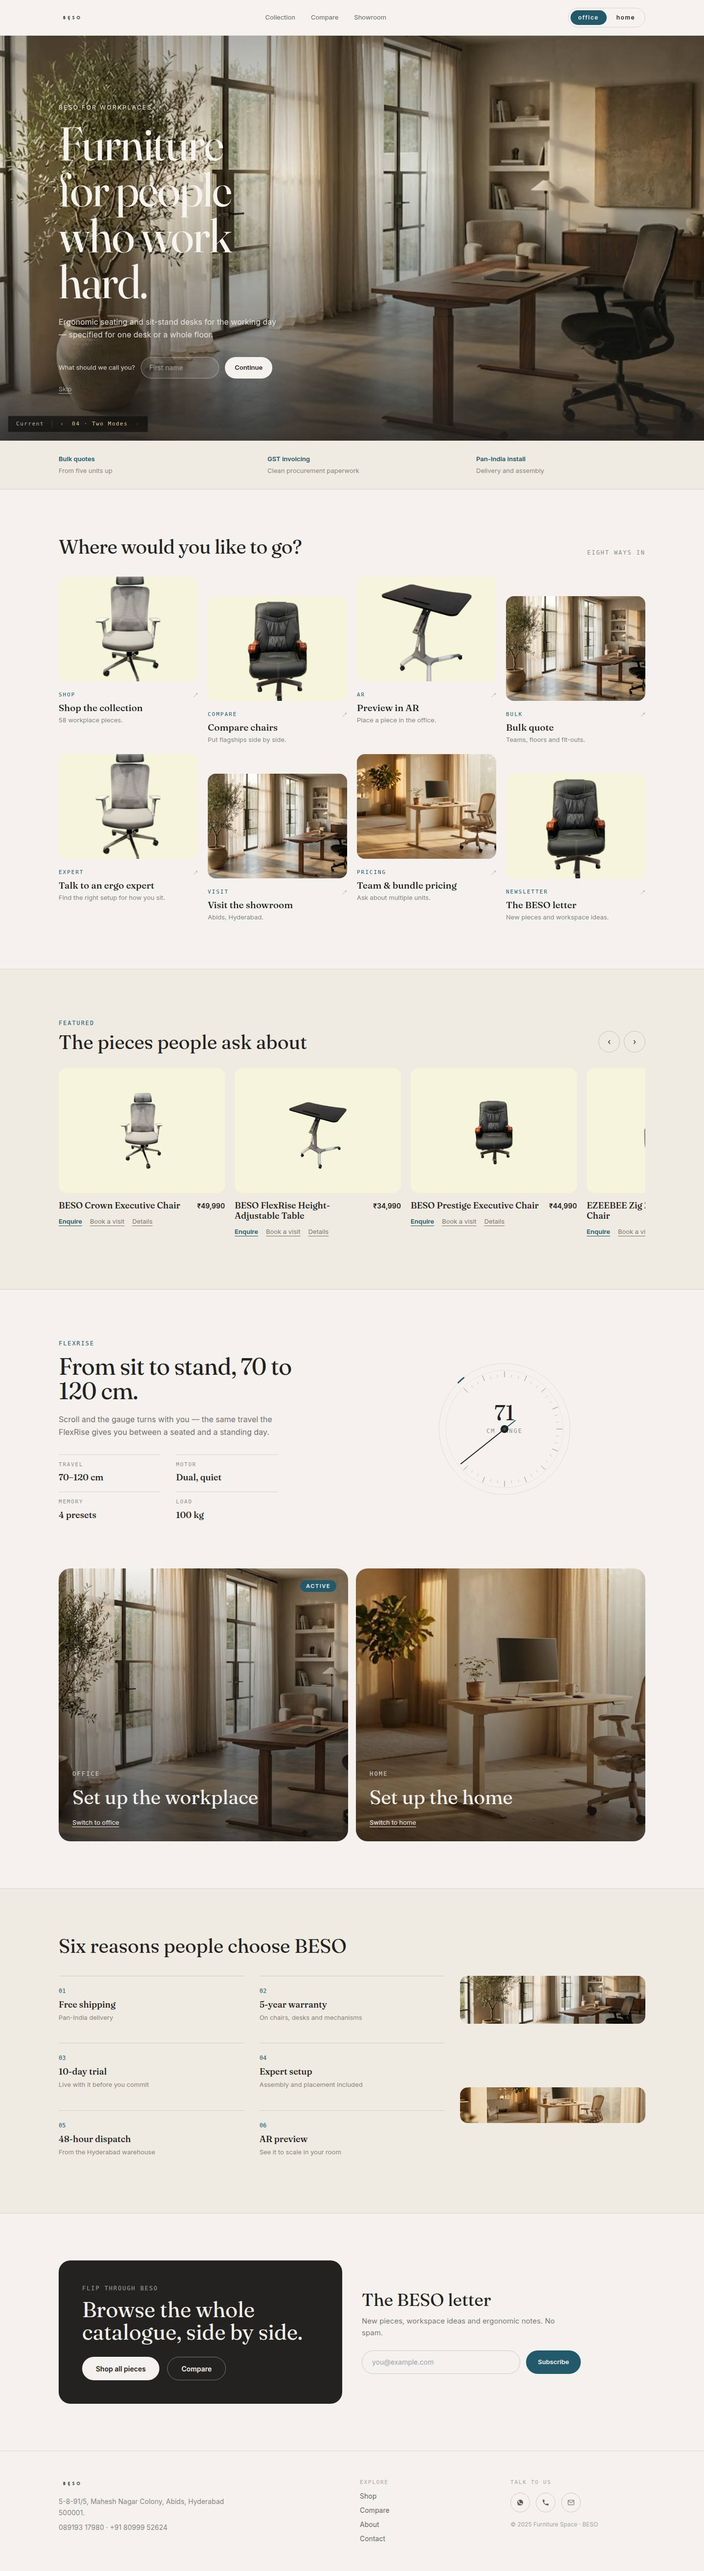
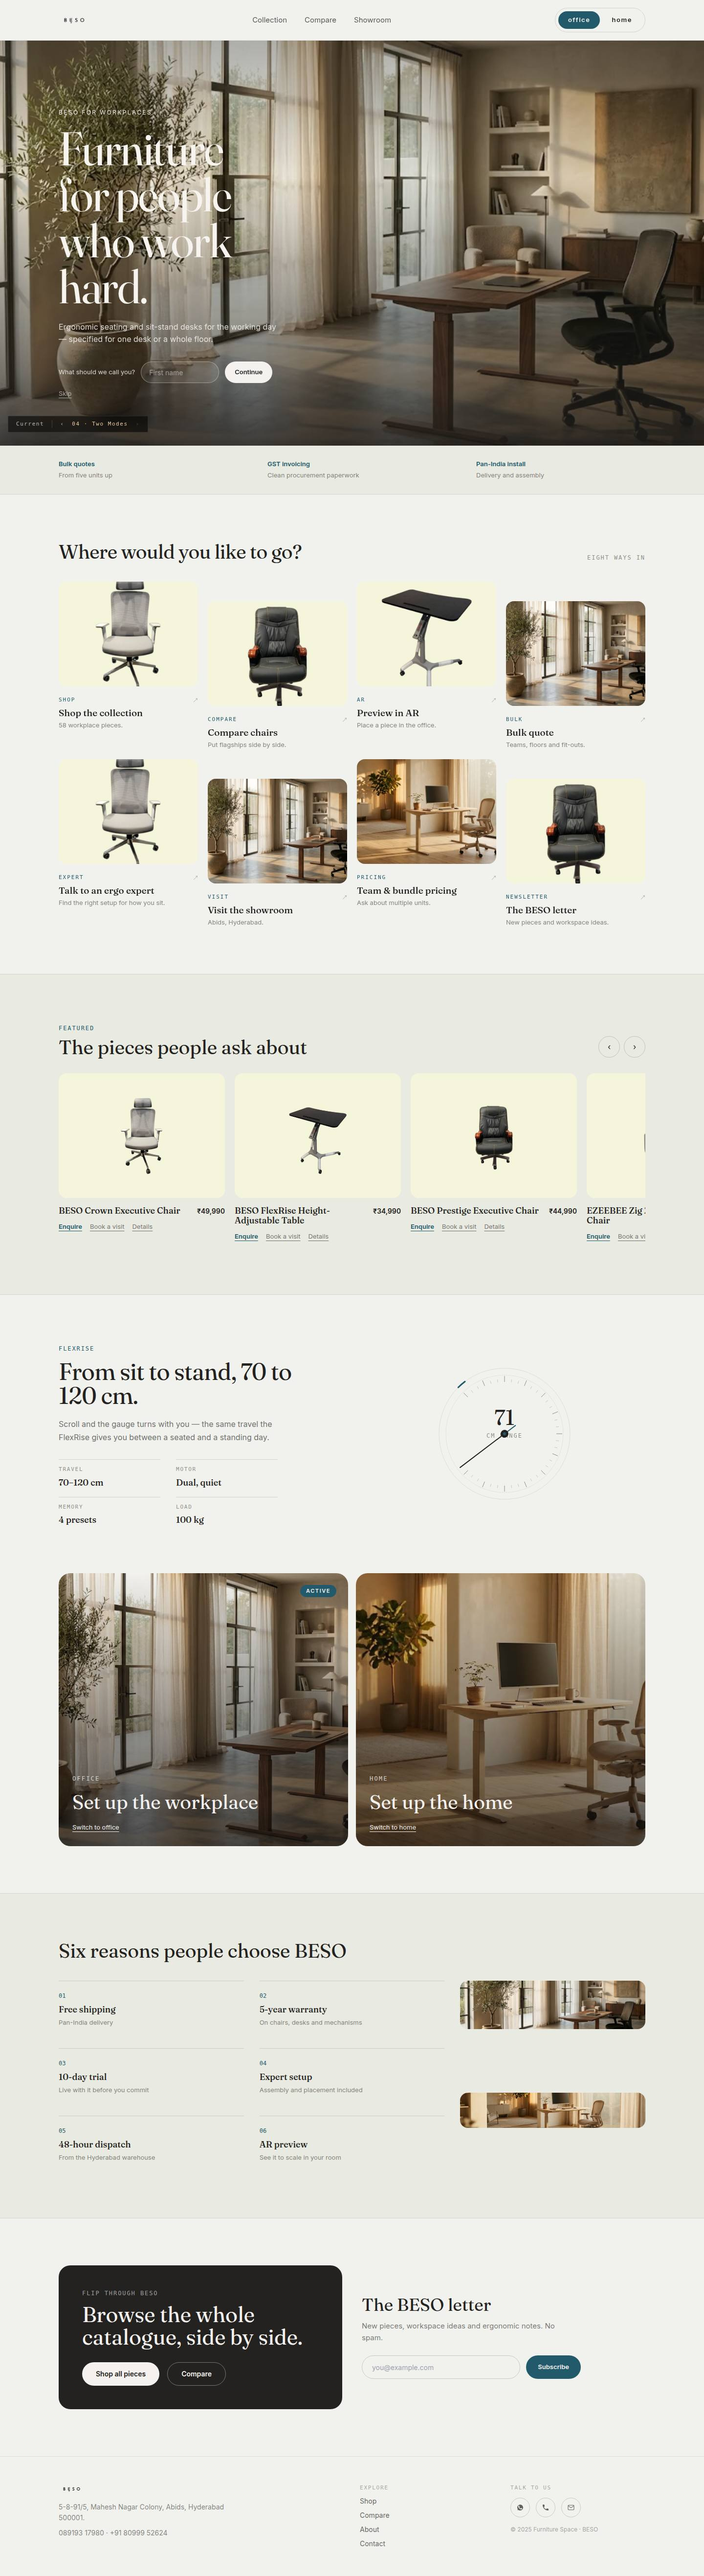
feat(concept/Two Modes): dolly-zoom card motion, bigger nav, per-mode tint
- card hover motion -> dolly zoom (container scales down, image scales up)
  on entry tiles and featured cards (replaces sheen/lift)
- nav elements larger (logo, 15px links, bigger mode toggle)
- subtle per-mode page tint matched to the new videos (Office cool base
  #F1F2ED, Home warm #F6EFE4; panels shift too) with a 700ms transition

diff --git a/src/components/designs/d04-twomodes/index.tsx b/src/components/designs/d04-twomodes/index.tsx
@@ -41,6 +41,8 @@ const MODES = {
     headline: ['Furniture', 'for people', 'who work', 'hard.'],
     sub: 'Ergonomic seating and sit-stand desks for the working day — specified for one desk or a whole floor.',
     accent: '#235A6B',
+    base: '#F1F2ED',
+    panel: '#E9EAE1',
     video: '/assets/videos/mode-office',
     poster: '/assets/videos/mode-office-poster.jpg',
     image: '/assets/images/d01-hero.jpg',
@@ -51,6 +53,8 @@ const MODES = {
     headline: ['Furniture', 'for people', 'who rest', 'well.'],
     sub: 'The same ergonomics, scaled to the corner where you read, write and unwind.',
     accent: '#B4593A',
+    base: '#F6EFE4',
+    panel: '#EFE6D8',
     video: '/assets/videos/mode-home',
     poster: '/assets/videos/mode-home-poster.jpg',
     image: '/assets/images/editorial-workspace.jpg',
@@ -165,25 +169,25 @@ export default function DesignTwoModes() {
   const nudge = (dir: number) => scroller.current?.scrollBy({left: dir * 360, behavior: 'smooth'});
 
   return (
-    <div className="bg-[#F4F1EE] text-[#232220]" style={{fontFamily: BODY}}>
+    <div className="text-[#232220] transition-colors duration-700" style={{fontFamily: BODY, background: M.base}}>
       {/* ── Header with mode switch ────────────────────────────────────── */}
-      <header className="sticky top-0 z-40 border-b border-[#232220]/10 bg-[#F4F1EE]/85 backdrop-blur-md">
+      <header className="sticky top-0 z-40 border-b border-[#232220]/10 backdrop-blur-md" style={{background: `${M.base}D9`}}>
         <div className="mx-auto flex max-w-[1280px] items-center justify-between gap-4 px-5 py-4 lg:px-10">
           <Link href="/" className="flex items-center gap-3">
-            <img src="/assets/images/beso-logo-transparent.png" alt="BESO" className="h-5 w-auto" style={{filter: 'brightness(0)'}} />
+            <img src="/assets/images/beso-logo-transparent.png" alt="BESO" className="h-6 w-auto" style={{filter: 'brightness(0)'}} />
           </Link>
-          <nav className="hidden items-center gap-8 text-[13px] text-[#232220]/70 md:flex">
-            <Link href="/products" className="hover:text-[#232220]">Collection</Link>
-            <Link href="/compare" className="hover:text-[#232220]">Compare</Link>
-            <Link href="#showroom" className="hover:text-[#232220]">Showroom</Link>
+          <nav className="hidden items-center gap-9 text-[15px] text-[#232220]/75 md:flex">
+            <Link href="/products" className="transition-colors hover:text-[#232220]">Collection</Link>
+            <Link href="/compare" className="transition-colors hover:text-[#232220]">Compare</Link>
+            <Link href="#showroom" className="transition-colors hover:text-[#232220]">Showroom</Link>
           </nav>
-          <div className="flex items-center gap-1 rounded-full border border-[#232220]/15 p-1 text-[12px] font-semibold uppercase tracking-[0.12em]">
+          <div className="flex items-center gap-1 rounded-full border border-[#232220]/15 p-1.5 text-[13px] font-semibold uppercase tracking-[0.12em]">
             {(['office', 'home'] as Mode[]).map((m) => (
               <button
                 key={m}
                 onClick={() => pick(m)}
                 aria-pressed={mode === m}
-                className="rounded-full px-4 py-1.5 transition-colors duration-500 ease-in-out"
+                className="rounded-full px-5 py-2 transition-colors duration-500 ease-in-out"
                 style={mode === m ? {background: MODES[m].accent, color: '#F4F1EE'} : {color: '#232220'}}
               >
                 {m}
@@ -245,7 +249,7 @@ export default function DesignTwoModes() {
       </section>
 
       {/* ── Mode USP trio (swaps with the mode) ────────────────────────── */}
-      <section key={`usp-${mode}`} className="tm-swap border-b border-[#232220]/10 bg-[#EFEAE2]">
+      <section key={`usp-${mode}`} className="tm-swap border-b border-[#232220]/10 transition-colors duration-700" style={{background: M.panel}}>
         <div className="mx-auto grid max-w-[1280px] gap-px sm:grid-cols-3">
           {M.usp.map(([t, d]) => (
             <div key={t} className="px-5 py-7 lg:px-10">
@@ -266,9 +270,8 @@ export default function DesignTwoModes() {
           {TILES[mode].map((t, i) => (
             <Reveal key={t.title} delay={(i % 4) * 70} className={i % 2 === 1 ? 'lg:mt-10' : ''}>
               <Link href={t.href} target={t.href.startsWith('http') ? '_blank' : undefined} rel={t.href.startsWith('http') ? 'noopener noreferrer' : undefined} className="group block">
-                <div className="relative overflow-hidden rounded-2xl bg-[#F5F5DB]">
-                  <img src={t.img} alt={t.title} loading="lazy" className="aspect-[4/3] w-full object-cover transition-transform duration-[900ms] ease-out group-hover:scale-[1.06]" />
-                  <span aria-hidden className="pointer-events-none absolute inset-0 -translate-x-full bg-gradient-to-r from-transparent via-white/40 to-transparent transition-transform duration-[900ms] ease-out group-hover:translate-x-full" />
+                <div className="relative overflow-hidden rounded-2xl bg-[#F5F5DB] transition-transform duration-[900ms] ease-[cubic-bezier(0.22,1,0.36,1)] group-hover:scale-[0.93]">
+                  <img src={t.img} alt={t.title} loading="lazy" className="aspect-[4/3] w-full object-cover transition-transform duration-[900ms] ease-[cubic-bezier(0.22,1,0.36,1)] group-hover:scale-[1.28]" />
                 </div>
                 <div className="mt-4 flex items-center justify-between">
                   <span className="text-[11px] uppercase tracking-[0.18em]" style={{color: M.accent, fontFamily: MONO}}>{t.label}</span>
@@ -283,7 +286,7 @@ export default function DesignTwoModes() {
       </section>
 
       {/* ── Featured carousel ──────────────────────────────────────────── */}
-      <section className="border-y border-[#232220]/10 bg-[#EFEAE2]">
+      <section className="border-y border-[#232220]/10 transition-colors duration-700" style={{background: M.panel}}>
         <div className="mx-auto max-w-[1280px] px-5 py-16 lg:px-10 lg:py-24">
           <div className="flex items-end justify-between gap-4">
             <div>
@@ -298,9 +301,8 @@ export default function DesignTwoModes() {
           <div ref={scroller} key={mode} className="mt-8 flex snap-x snap-mandatory gap-5 overflow-x-auto pb-3 [scrollbar-width:none]">
             {carouselFor(mode).map((p) => (
               <article key={p.slug} className="group w-[76vw] shrink-0 snap-start sm:w-[340px]">
-                <div className="relative overflow-hidden rounded-2xl bg-[#F5F5DB] transition-all duration-700 ease-out group-hover:-translate-y-1.5 group-hover:shadow-[0_18px_40px_-18px_rgba(35,32,28,0.45)]">
-                  <img src={src(p)} alt={p.name} loading="lazy" className="aspect-[4/3] w-full object-contain p-6 transition-transform duration-[900ms] ease-out group-hover:scale-[1.06]" />
-                  <span aria-hidden className="pointer-events-none absolute inset-0 -translate-x-full bg-gradient-to-r from-transparent via-white/30 to-transparent transition-transform duration-[1000ms] ease-out group-hover:translate-x-full" />
+                <div className="relative overflow-hidden rounded-2xl bg-[#F5F5DB] transition-all duration-[900ms] ease-[cubic-bezier(0.22,1,0.36,1)] group-hover:scale-[0.93] group-hover:shadow-[0_18px_40px_-18px_rgba(35,32,28,0.45)]">
+                  <img src={src(p)} alt={p.name} loading="lazy" className="aspect-[4/3] w-full object-contain p-6 transition-transform duration-[900ms] ease-[cubic-bezier(0.22,1,0.36,1)] group-hover:scale-[1.28]" />
                 </div>
                 <div className="mt-4 flex items-baseline justify-between gap-4">
                   <h3 className="text-[18px] leading-[1.15]" style={{fontFamily: DISPLAY, fontWeight: 420}}>{p.name}</h3>
@@ -390,7 +392,7 @@ export default function DesignTwoModes() {
       </section>
 
       {/* ── Six reasons ────────────────────────────────────────────────── */}
-      <section className="border-y border-[#232220]/10 bg-[#EFEAE2]">
+      <section className="border-y border-[#232220]/10 transition-colors duration-700" style={{background: M.panel}}>
         <div className="mx-auto max-w-[1280px] px-5 py-16 lg:px-10 lg:py-24">
           <h2 className="text-[clamp(26px,3.2vw,40px)] font-light leading-[1.05]" style={{fontFamily: DISPLAY, fontWeight: 380}}>Six reasons people choose BESO</h2>
           <div className="mt-10 grid gap-8 lg:grid-cols-12">
